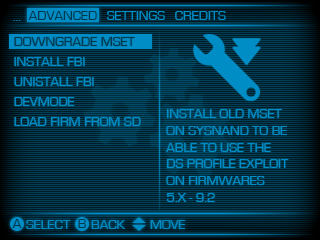
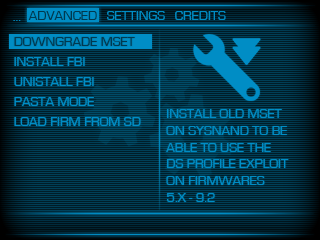
Changed DevMode to PastaMode, boot screen hides emunand if not found

Changed region(s): [[0.0312, 0.9042, 0.5938, 0.9917], [0.0625, 0.3792, 0.2812, 0.4667]]

diff --git a/rxtools/source/MainMenu.h b/rxtools/source/MainMenu.h
@@ -88,7 +88,7 @@ static Menu AdvancedMenu = {
 		{ L" Downgrade MSET on SysNAND", &downgradeMSET, "adv0.bin" },
 		{ L" Install FBI over Health&Safety App", &installFBI, "adv1.bin" },
 		{ L" Restore original Health&Safety App", &restoreHS, "adv2.bin" },
-		{ L" Launch DevMode", (void(*)())&DevMode, "adv3.bin" },
+		{ L" Launch PastaMode", (void(*)())&PastaMode, "adv3.bin" },
 		{ L" Load a firm", &FirmLoader, "adv4.bin" },
 	},
 	5,
@@ -334,12 +334,12 @@ void SettingsMenuInit(){
 
 void BootMenuInit(){
 	char str[100];
-	sprintf(str, "/rxTools/Theme/%u/boot0.bin", cfgs[CFG_THEME].val.i);//DRAW TOP SCREEN TO SEE THE NEW THEME
+	sprintf(str, "/rxTools/Theme/%u/boot%c.bin", cfgs[CFG_THEME].val.i, checkEmuNAND() ? '0' : 'S');//SHOW ONLY SYSYNAND IF EMUNAND IS NOT FOUND
 	DrawBottomSplash(str);
 	while (true) {
 		uint32_t pad_state = InputWait();
-		if (pad_state & BUTTON_Y) {
-			rxModeWithSplash(1);      //Boot emunand
+		if ((pad_state & BUTTON_Y) && checkEmuNAND()) {
+			rxModeWithSplash(1);      //Boot emunand (only if found)
 			DrawBottomSplash(str);
 		} else if (pad_state & BUTTON_X) {
 			rxModeWithSplash(0); //Boot sysnand
@@ -353,7 +353,7 @@ void BootMenuInit(){
 
 void CreditsMenuInit(){
 	char str[100];
-	sprintf(str, "/rxTools/Theme/%u/credits.bin", cfgs[CFG_THEME].val.i);//DRAW TOP SCREEN TO SEE THE NEW THEME
+	sprintf(str, "/rxTools/Theme/%u/credits.bin", cfgs[CFG_THEME].val.i);
 	DrawBottomSplash(str);
 	WaitForButton(BUTTON_B);
 	OpenAnimation();

diff --git a/rxtools/source/features/firm.c b/rxtools/source/features/firm.c
@@ -343,8 +343,8 @@ void rxModeWithSplash(int emu)
 }
 
 //Just patches signatures check, loads in sysnand
-int DevMode(){
-	/*DevMode is ready for n3ds BUT there's an unresolved bug which affects nand reading functions, like nand_readsectors(0, 0xF0000 / 0x200, firm, FIRM0);*/
+int PastaMode(){
+	/*PastaMode is ready for n3ds BUT there's an unresolved bug which affects nand reading functions, like nand_readsectors(0, 0xF0000 / 0x200, firm, FIRM0);*/
 
 	uint8_t* firm = (void*)0x24000000;
 	nand_readsectors(0, 0xF0000 / 0x200, firm, FIRM0);

diff --git a/rxtools/source/features/firm.h b/rxtools/source/features/firm.h
@@ -43,7 +43,7 @@ typedef enum {
 
 extern const char firmPathFmt[];
 
-int DevMode();
+int PastaMode();
 void FirmLoader();
 void rxModeWithSplash(int emu);
 int rxMode(int emu);
